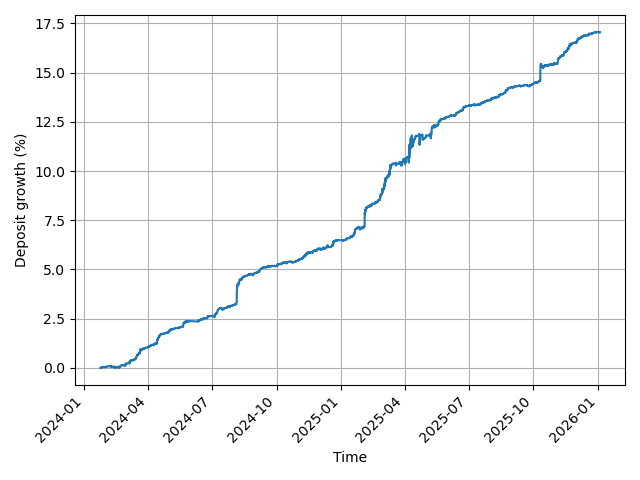
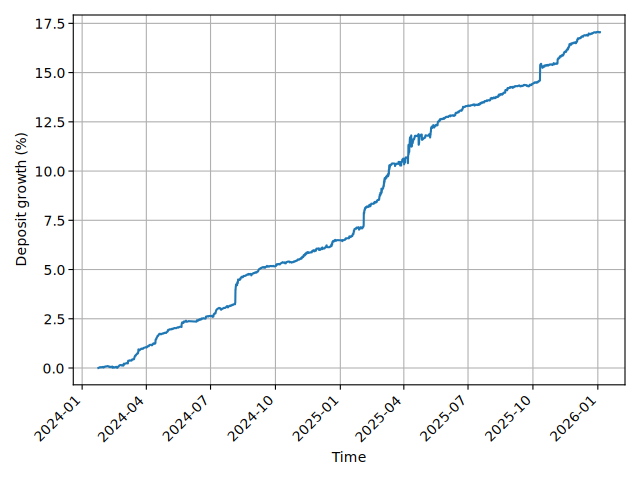
Dedup the data and recheck (all ok)

diff --git a/ethusd/data-till-2026/dedup.py b/ethusd/data-till-2026/dedup.py
@@ -1,0 +1,20 @@
+#!/usr/bin/env python3
+
+import json
+import lzma
+import sys
+
+with lzma.open(sys.argv[1]) as f:
+    data = json.load(f)
+
+ddata = {}
+for d in data:
+    if d[0] not in ddata:
+        ddata[d[0]] = d
+
+out = []
+for t in sorted(ddata.keys()):
+    out.append(ddata[t])
+
+with open(sys.argv[1].split('.')[0] + '.json', 'w') as f:
+    json.dump(out, f)
